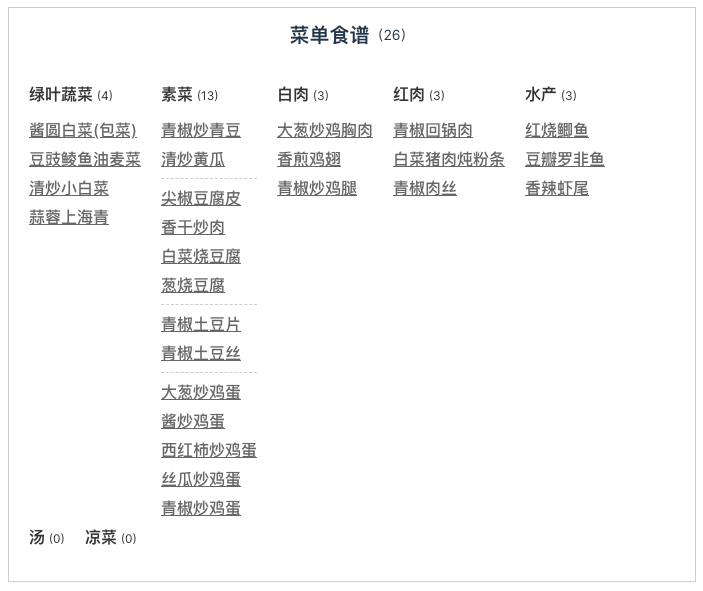
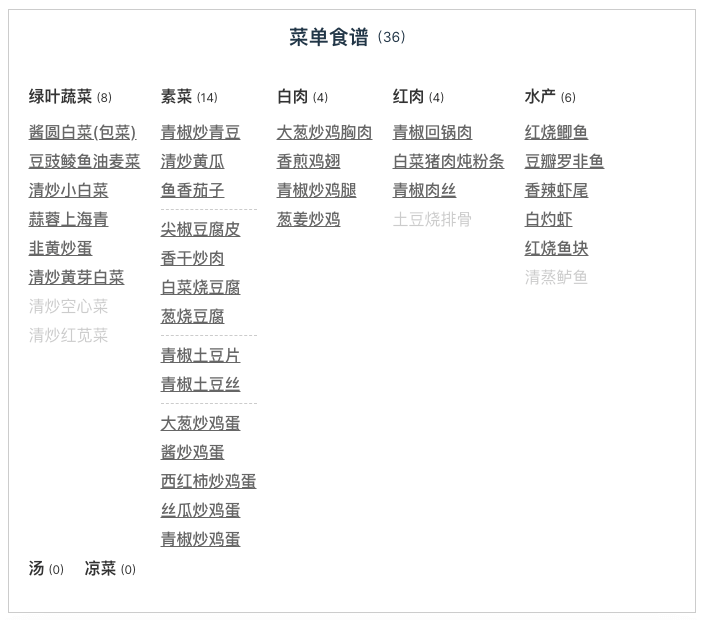
feat(food): 新增 10-05 做饭记录

diff --git a/docs/components/menu.vue b/docs/components/menu.vue
@@ -49,7 +49,6 @@ const vegetable = {
     { name: "青椒炒青豆", path: "#白菜猪肉炖粉条、青椒炒青豆-22-09-17" },
     { name: "清炒黄瓜", path: "#豆瓣罗非鱼、清炒黄瓜、番茄炒蛋-22-09-03" },
     { name: "鱼香茄子", path: "#白灼虾、鱼香-小炒茄子-22-10-03" }, 
-    { name: "小炒茄子", path: "#白灼虾、鱼香-小炒茄子-22-10-03" },
     { name: "-", path: "豆制品" },
     { name: "尖椒豆腐皮", path: "#青椒回锅肉、尖椒豆腐皮-22-09-25" },
     { name: "香干炒肉", path: "#香干炒肉、白菜烧豆腐-22-09-18" },
@@ -79,7 +78,7 @@ const greenVegetable = {
     { name: "清炒小白菜", path: "#香煎鸡翅、清炒小白菜-22-09-04" },
     { name: "蒜蓉上海青", path: "#香辣虾尾、蒜蓉上海青-22-10-02" },
     { name: "韭黄炒蛋", path: "#姜葱炒鸡、韭黄炒蛋-22-10-04" },
-    { name: "清炒黄芽白菜", path: "", todo: true },
+    { name: "清炒黄芽白菜", path: "#红烧鱼块、黄芽白菜-22-10-05" },
     { name: "清炒空心菜", path: "", todo: true },
     { name: "清炒红苋菜", path: "", todo: true },
   ],
@@ -118,7 +117,7 @@ const fish = {
     { name: "豆瓣罗非鱼", path: "#豆瓣罗非鱼、清炒黄瓜、番茄炒蛋-22-09-03" },
     { name: "香辣虾尾", path: "#香辣虾尾、蒜蓉上海青-22-10-02" },
     { name: "白灼虾", path: "#白灼虾、鱼香-小炒茄子-22-10-03" },
-    { name: "红烧鱼块", path: "", todo: true },
+    { name: "红烧鱼块", path: "#红烧鱼块、黄芽白菜-22-10-05" },
     { name: "清蒸鲈鱼", path: "", todo: true },
     { name: "", path: "" },
   ],

diff --git a/docs/food/daily.md b/docs/food/daily.md
@@ -1,5 +1,23 @@
 # 做饭日常
 
+## 红烧鱼块、黄芽白菜(22-10-05)
+
+![22-10-05-01.png](/images/food/22-10-05-01.png)
+
+红烧鱼块
+
+- [红烧鱼块最好吃的做法，大厨分享不外传秘诀，鱼肉鲜香滑嫩，美味](https://www.bilibili.com/video/BV1rZ4y1X7tm)
+- 注意点：这次做的鱼块没按上面视频来，有点翻车，老抽放多了，色上多了，味道还行，昨天买的大葱多了，就放鱼里了，建议不要放。另外鱼的处理问题，最好按照视频来，把中间的刺踢出去。但注意，只要是吃鱼，就要注意刺。另外加花椒油味道还行。煎鱼时，注意不要一次煎太多，电磁炉受热不均，油不够鱼皮会被掉。
+
+清炒黄芽白菜
+
+- [厨师长教你：“酸辣大白菜”的家常做法，酸辣又开胃，收藏了](https://www.bilibili.com/video/BV1aJ411z7z9)
+- 注意点：最好按照上面的视频来，我是按照普通的清炒绿叶蔬菜做法直接做的，大火炒，最后放盐、醋调味，味道还行。
+
+![22-10-05-02.png](/images/food/22-10-05-02.png)
+![22-10-05-03.png](/images/food/22-10-05-03.png)
+![22-10-05-04.png](/images/food/22-10-05-04.png)
+
 ## 姜葱炒鸡、韭黄炒蛋(22-10-04)
 
 ![22-10-04-01.png](/images/food/22-10-04-01.png)
